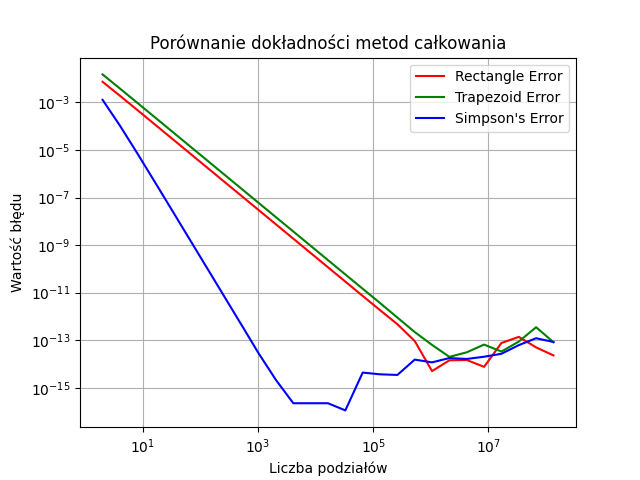
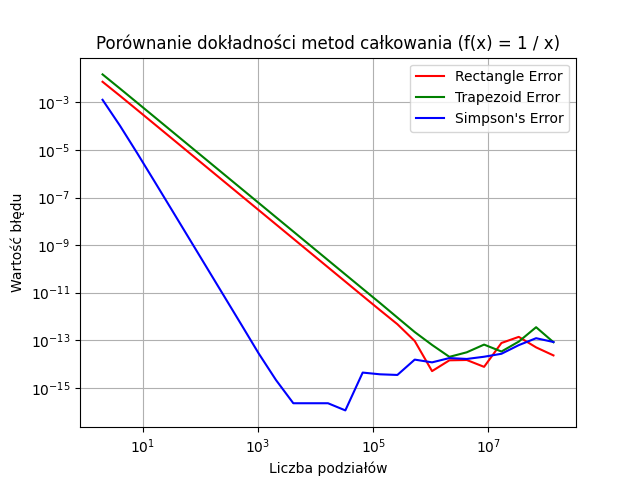
improved plot titles + cleaned up main fn

Changed region(s): [[0.1562, 0.0625, 0.875, 0.125]]

diff --git a/src/main.rs b/src/main.rs
@@ -94,6 +94,46 @@ fn display_ellipse_area(a: f64, b: f64, div: u32, actual: f64) {
     );
 }
 
+fn run_parabola() {
+    let div = 100_000;
+    let actual = 1.0 / 3.0;
+    let area = integrate::simpson(0.0, 1.0, div, |x| x.powf(2.0));
+    println!(
+        "Calculated area under a parabola on an interval [0; 1] = {}",
+        area
+    );
+    println!(
+        "With {} divisions, actual value: {}, difference: {:e}",
+        div,
+        actual,
+        (actual - area).abs()
+    );
+}
+
+fn run_ellipse() {
+    let div = 100_000;
+    display_ellipse_area(1.0, 1.0, div, PI);
+    display_ellipse_area(3.0, 2.0, div, 6.0 * PI);
+    display_ellipse_area(7.0, 3.0, div, 21.0 * PI);
+    display_ellipse_area(4.0, 1.0, div, 4.0 * PI);
+}
+
+fn run_sin() {
+    let div = 100_000;
+    let area = integrate::simpson(0.0, 1.0, div, |x| x.sin());
+    let actual = 1.0 - 1f64.cos();
+    println!(
+        "Calculated area under a sine on an interval [0; 1] = {}",
+        area
+    );
+    println!(
+        "With {} divisions, actual value: {}, difference: {:e}",
+        div,
+        actual,
+        (actual - area).abs()
+    );
+}
+
 fn main() {
     let args: Vec<String> = env::args().collect();
     if args.len() != 2 {
@@ -123,42 +163,13 @@ fn main() {
                 eprintln!("{}", result);
             }
         }
-        "parabola" => {
-            let div = 100_000;
-            let actual = 1.0 / 3.0;
-            let area = integrate::simpson(0.0, 1.0, div, |x| x.powf(2.0));
-            println!(
-                "Calculated area under a parabola on an interval [0; 1] = {}",
-                area
-            );
-            println!(
-                "With {} divisions, actual value: {}, difference: {:e}",
-                div,
-                actual,
-                (actual - area).abs()
-            );
-        }
-        "ellipse" => {
-            let div = 100_000;
-            display_ellipse_area(1.0, 1.0, div, PI);
-            display_ellipse_area(3.0, 2.0, div, 6.0 * PI);
-            display_ellipse_area(7.0, 3.0, div, 21.0 * PI);
-            display_ellipse_area(4.0, 1.0, div, 4.0 * PI);
-        }
-        "sin" => {
-            let div = 100_000;
-            let area = integrate::simpson(0.0, 1.0, div, |x| x.sin());
-            let actual = 1.0 - 1f64.cos();
-            println!(
-                "Calculated area under a sine on an interval [0; 1] = {}",
-                area
-            );
-            println!(
-                "With {} divisions, actual value: {}, difference: {:e}",
-                div,
-                actual,
-                (actual - area).abs()
-            );
+        "areas" => {
+            println!("\nPARABOLA:");
+            run_parabola();
+            println!("\n\nELLIPSE:");
+            run_ellipse();
+            println!("\nSINE:");
+            run_sin();
         }
         "compare" => {
             compare::inc_dump("dump/x2.csv", -1.0, 1.0, 2.0 / 3.0, |x| x.powi(2)).unwrap();
@@ -166,8 +177,6 @@ fn main() {
             compare::inc_dump("dump/ex.csv", 0.0, 1.0, E - 1.0, |x| E.powf(*x)).unwrap();
             compare::inc_dump("dump/1x.csv", 1.0, 2.0, 2f64.ln(), |x| 1.0 / x).unwrap();
             compare::inc_dump("dump/cos.csv", 0.0, PI / 2.0, 1.0, |x| x.cos()).unwrap();
-            compare::inc_dump("dump/x.csv", 0.0, 1.0, 1.0 / 2.0, |x| *x).unwrap();
-            compare::inc_dump("dump/1.csv", 0.0, 1.0, 1.0, |_| 1.0).unwrap();
 
             let py_output = Command::new("python3")
                 .arg("scripts/plotter.py")

diff --git a/scripts/plotter.py b/scripts/plotter.py
@@ -1,17 +1,16 @@
 import csv
 import matplotlib.pyplot as plt
 import sys
-import numpy as np
 
 
 def plot(n, data, colors, labels, xl, yl, title, out_path):
     plt.figure()
-    plt.yscale("log")
-    plt.xscale("log")
     for i in range(len(data)):
         plt.plot(n, data[i], color=colors[i],
                  linestyle="-", marker="", label=labels[i])
 
+    plt.yscale("log")
+    plt.xscale("log")
     plt.xlabel(xl)
     plt.ylabel(yl)
     plt.title(title, loc="center", wrap=True)
@@ -57,13 +56,19 @@ if __name__ == "__main__":
                 ierr.append(float(row[4]))
 
         data = [verr, ierr]
-        plot(n, data, ["red", "green"], ["Vector Error", "Integral Error"], "Liczba podziałów",
+        plot(n, data, ["red", "green"], ["Vector Error", "Integral Error (Simpson)"], "Liczba podziałów",
              "Wartość błędu", "Porównanie dokładności w wyliczaniu wartości liczby PI", "img/pi_err.png")
     elif option == "all":
-        files = ["1x", "cos", "ex", "sin", "x2"]
-        for name in files:
+        files = {
+            "1x": "1 / x",
+            "cos": "cos(x)",
+            "ex": "e^x",
+            "sin": "sin(x)",
+            "x2": "x^2",
+        }
+        for name, fn in files.items():
             n, data = load_data_cmp(f"dump/{name}.csv")
             plot(n, data, ["red", "green", "blue"], ["Rectangle Error", "Trapezoid Error", "Simpson's Error"], "Liczba podziałów",
-                 "Wartość błędu", "Porównanie dokładności metod całkowania", f"img/{name}_err.png")
+                 "Wartość błędu", f"Porównanie dokładności metod całkowania (f(x) = {fn})", f"img/{name}_err.png")
     else:
         print("Unknown argument", file=sys.stderr)
